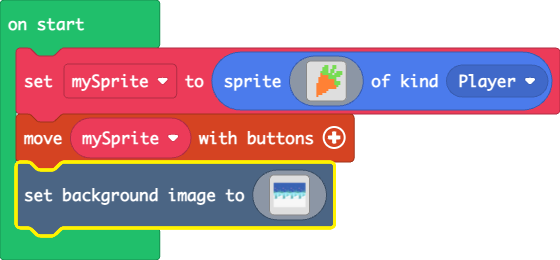
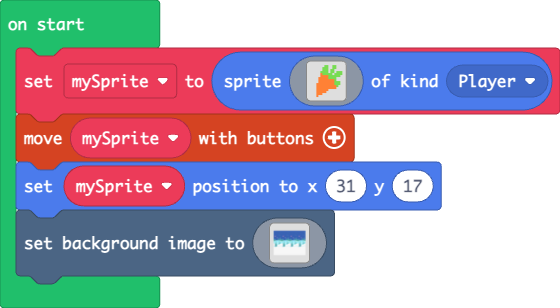
Update main.blocks, main.ts

diff --git a/main.ts b/main.ts
@@ -17,6 +17,7 @@ let mySprite = sprites.create(img`
     . . . 4 . . . . . . . . . . . . 
     `, SpriteKind.Player)
 controller.moveSprite(mySprite)
+mySprite.setPosition(31, 17)
 scene.setBackgroundImage(img`
     8888888888888888888888888888888888888888888888888888888888888888888888888888888888888888888888888888888888888888888888888888888888888888888888888888888888888888
     8888888888888888888888888888888888888888888888888888888888888888888888888888888888888888888888888888888888888888888888888888888888888888888888888888888888888888
